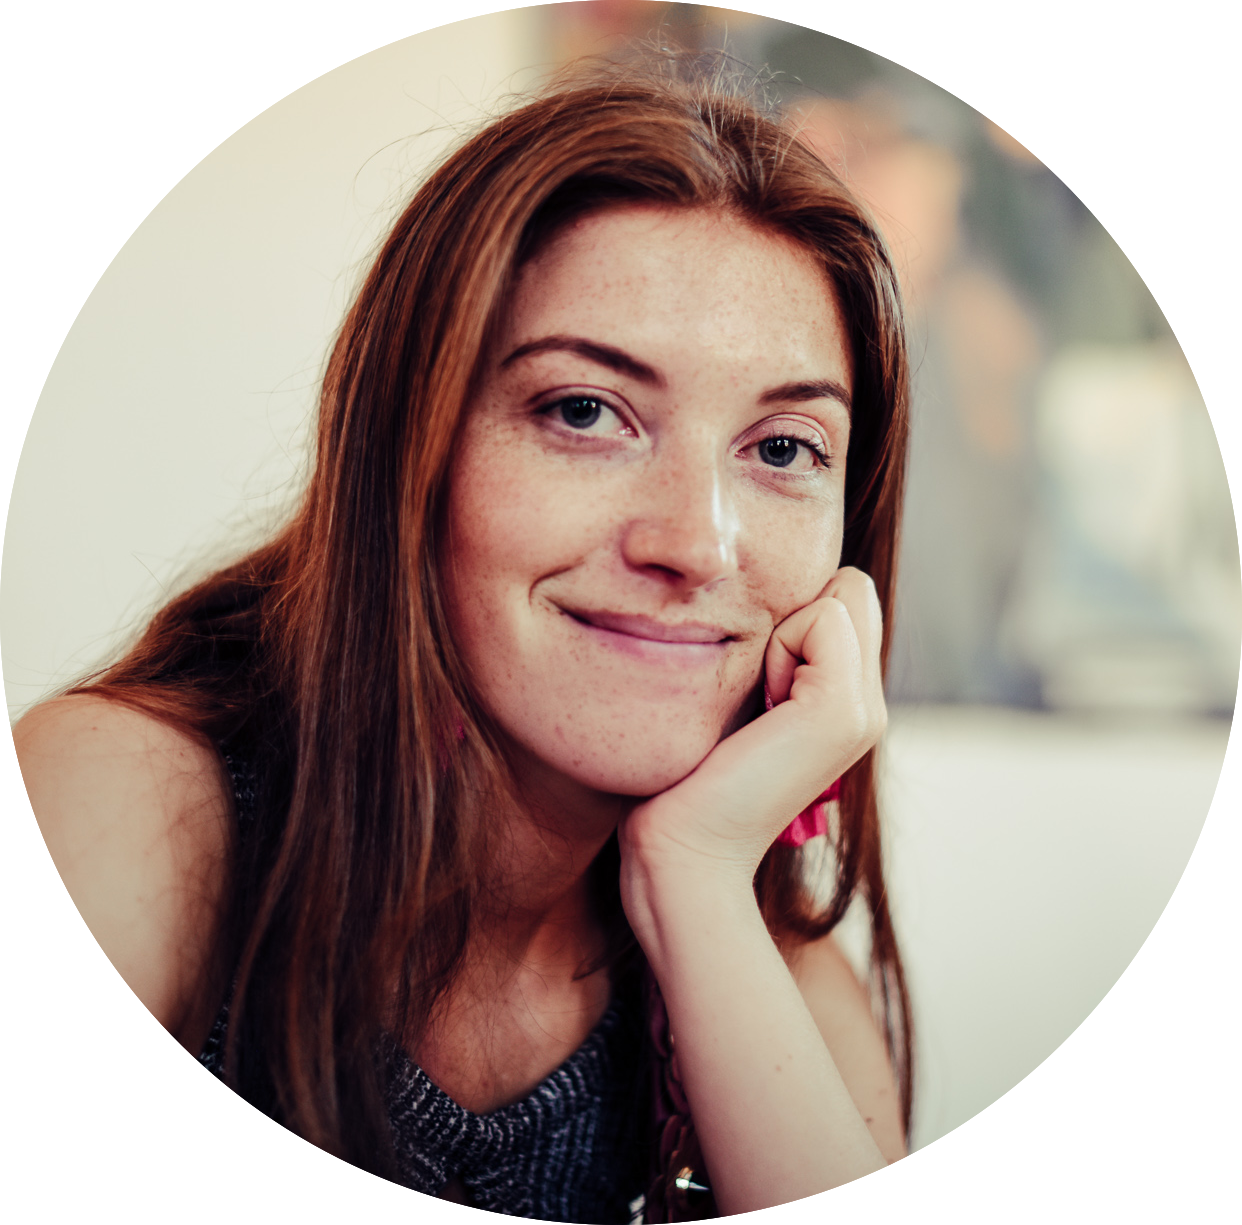
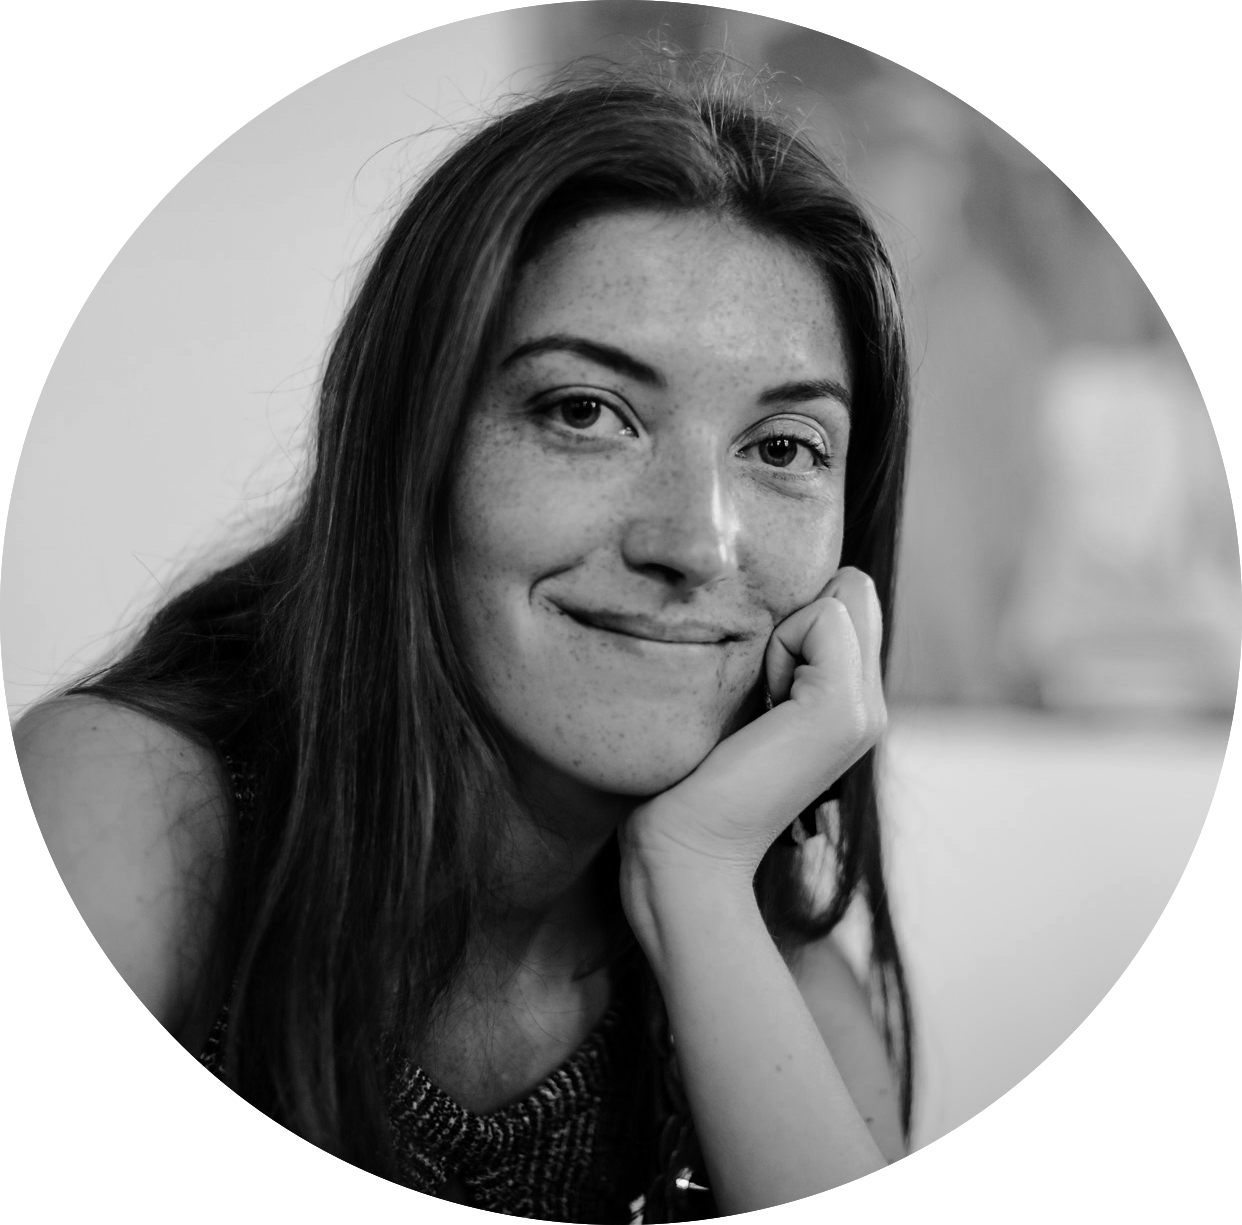
Add new layout styling

diff --git a/style.css b/style.css
@@ -5,10 +5,10 @@
 }
 
 body { 
-   /* background-image: url(./Assets/background-image.jpg);*/
+   /* background-image: url(./Assets/blacknwhite.jpg);
     background-position: center;
     background-size: cover;
-    color: black;
+    color: white;*/
     
 }
 
@@ -21,6 +21,8 @@ body {
     /*background-color: aqua;*/
     /*height: 35rem;*/
     width: 20rem;
+    
+
     /*margin: 1rem;*/
 }
 
@@ -41,14 +43,14 @@ body {
 }
 
 .github {
-    width: 4rem;
-    height: 4rem;
+    width: 2rem;
+    height: 2rem;
     margin-right: 1rem;
 }
 
 .linkedin {
-    width: 4rem;
-    height: 4rem;
+    width: 2rem;
+    height: 2rem;
     margin-right: 0.3rem;
 }
 
@@ -57,8 +59,11 @@ body {
 
 }
 
+.heading-info-contact .material-icons {
+    font-size: 2rem;
+}
+
 .main-content {
-    background-color: rgba(167, 187, 196, 0.289);
     height: auto;
     width: 50rem;
     /*margin: 1rem;*/
@@ -86,26 +91,47 @@ li {
     margin-right: 1.5rem;
 }
 
-
+.education-container h2{
+    padding: 2rem;
+    
+}
+.main-info-education {
+    border-top: 0.1rem solid black;
+    
+}
 
 .education-1 {
-    background-color: rgb(241, 216, 241);
-    border: whitesmoke 0.6rem solid;
-    border-collapse: collapse;
-    border-spacing: 0;
-    padding: 1.4rem;
-    width: 50%;
-}
-.education-2 {
-    background-color: rgb(241, 216, 241);
-    border: whitesmoke 0.6rem solid;
-    border-collapse: collapse;
-    border-spacing: 0;
-    
-    padding: 1.4rem;
-    width: 50%;
+    padding: 0.5rem;
+    background-color:  rgba(240, 229, 216, 0.534);
+    margin: 1rem 0rem;
+   
+     
 }
 
+.education-2 {
+    padding: 0.5rem;
+    background-color:  rgba(240, 229, 216, 0.534);
+    margin: 1rem 0rem 1rem 1rem;
+   
+    
+    
+    
+}
+.education-3 {
+    padding: 0.5rem;
+    background-color: rgba(240, 229, 216, 0.534);
+    margin: 1rem 0rem 1rem 1rem;
+    
+   
+   
+}
+.education-4 {
+    padding: 0.5rem;
+    background-color:  rgba(240, 229, 216, 0.534);
+    margin: 1rem 0rem 1rem 1rem;
+    
+    
+}
 
 .main-info-experience {
     padding: 2rem;
@@ -156,7 +182,6 @@ h1 {
 
 h2 {
     font-family: Verdana, Geneva, Tahoma, sans-serif;
-    margin-bottom: 1rem;
 }
 
 
@@ -207,7 +232,7 @@ hr {
 
 
 /* Media Queries */
-@media all and (max-width: 900px) {
+@media all and (max-width: 1000px) {
     .fixed-icons {
     
         position: initial;
@@ -245,7 +270,7 @@ hr {
     }
 
     .main-content {
-        
+        width: 100%;
     }
 
     .profile-view {

diff --git a/index.html b/index.html
@@ -52,29 +52,34 @@
                       </ul>
                 </div>
 
-                <div class="main-info-education flex row">
-                     
-                    <div class="education-1 flex column"><h2 class="">Education</h2> 
+                
+                <div class="education-container">    
+                    <h2 class="">Education</h2> 
+                    <div class="main-info-education flex row justify-between">
+                    <div class="education-1 flex column">
                     <p><b>Medieinstitutet</b></p>
-                    <p>Front End Developer | 2021-active</p>
                     <br>
-                    <p><b>Uppsala university</b></p>
-                    <p>Business ethics | 2019</p>
+                    <p>Front End Developer | 2021-active</p>
                     </div>
                     <div class="education-2 flex column">
                         <p><b>Kristianstad University</b></p>
-                        <p>Graphic design | 2019
-                        Graphic design for print and mobile devices</p>
-                    <br>
-                        
-                        <p><b>Umeå University</b></p>
-                    <p>Media and communication science - strategic communication | 2015 - 2018
-                    Marketing, Project Management, Public Relations,
-                    Communication Planning, Production, Event, Rhetoric, etc..</p>
+                        <br>
+                        <p>Graphic design | 2019</p>
                     </div>
-        
 
-                </div>
+                    <div class="education-3 flex column">
+                        <p><b>Uppsala University</b></p>
+                        <br>
+                        <p>Business ethics | 2019</p>
+                        </div>
+                        <div class="education-4 flex column">
+                        <p><b>Umeå University</b></p>
+                        <br>
+                        <p>Media and communication science - strategic communication | 2015 - 2018</p>
+                        </div>
+        
+                    </div>
+                </div> 
 
                 <div class="main-info-experience flex column">
                     <h2 class="">Experience</h2>  
